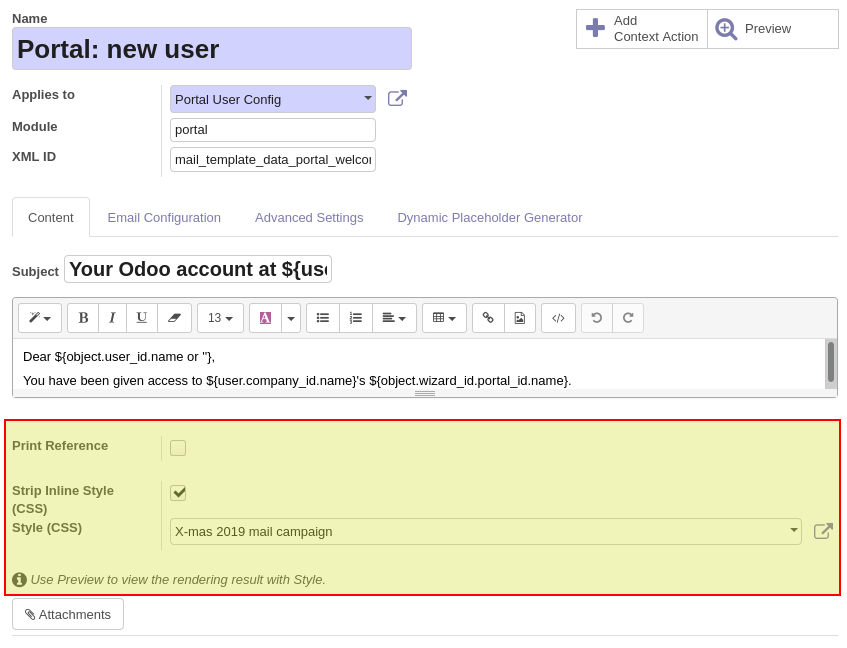
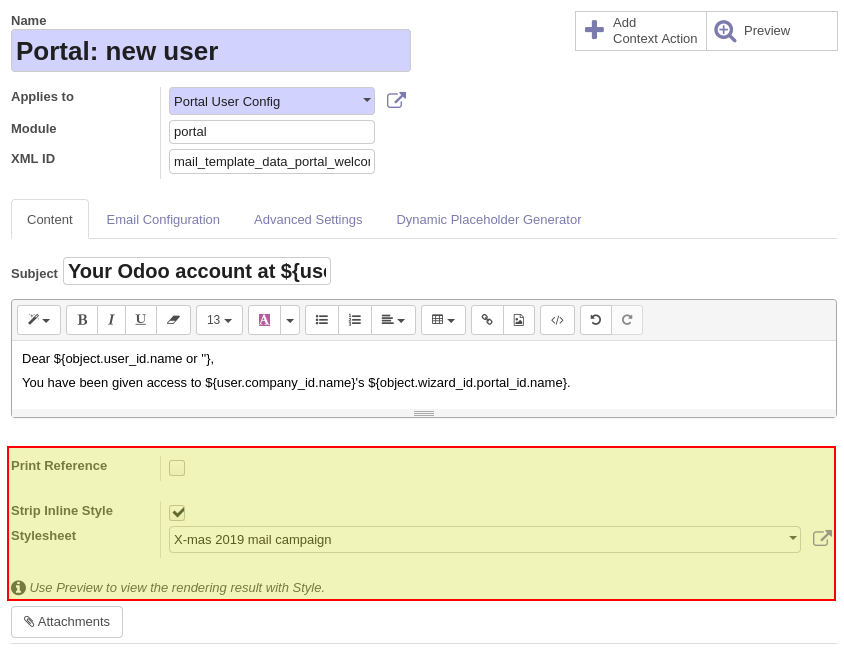
[IMP] mail_template_styling: field labels and screenshot.

diff --git a/mail_template_styling/models/mail_template_styling.py b/mail_template_styling/models/mail_template_styling.py
@@ -21,8 +21,11 @@ class MailTemplateStyle(models.Model):
 class MailTemplate(models.Model):
     _inherit = 'mail.template'
 
-    style_id = fields.Many2one('mail.template.style', string="Style (CSS)")
-    strip_inline_style = fields.Boolean(string='Strip Inline Style (CSS)')
+    style_id = fields.Many2one('mail.template.style', string="Stylesheet")
+    strip_inline_style = fields.Boolean(
+        string='Strip Inline Style',
+        help="""Remove inline style (CSS attributes) during rendering-time. Just post-processing, which ain't stored."""
+)
     print_ref = fields.Boolean(string='Print Reference', track_visibility='onchange')
 
 
